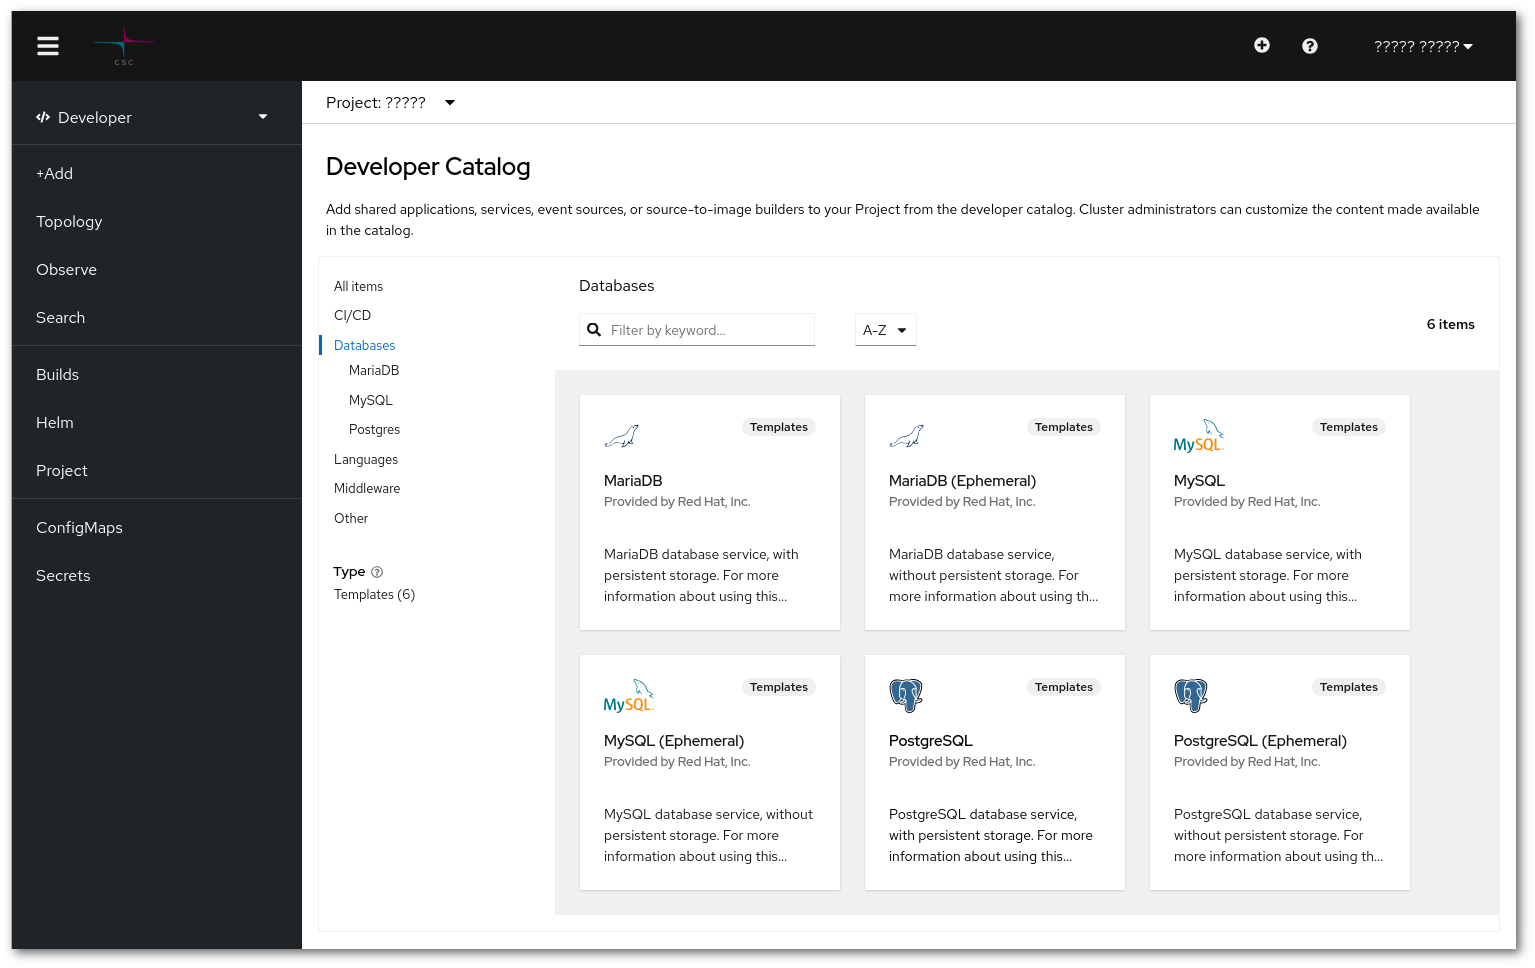
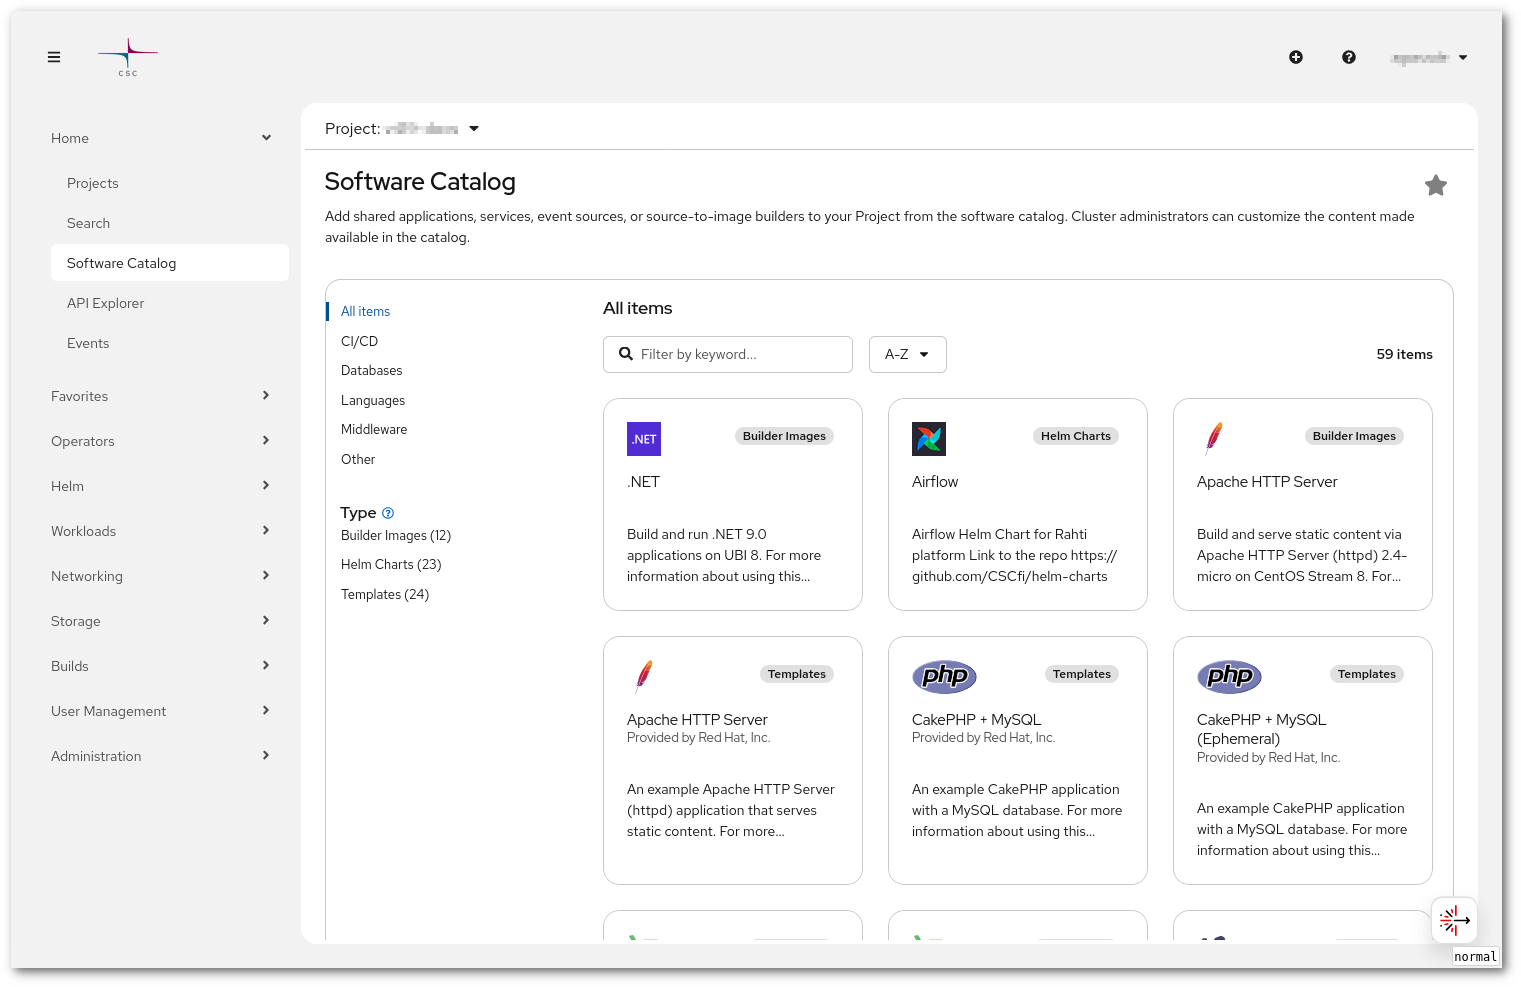
Update 4cat tutorial

diff --git a/docs/cloud/rahti/tutorials/4cat.md b/docs/cloud/rahti/tutorials/4cat.md
@@ -504,7 +504,7 @@ Finally we will create the deployments. We have 3 deployments and we will start 
     fixing permissions on existing directory /var/lib/postgresql/data ... initdb: error: could not change permissions of directory "/var/lib/postgresql/data": Operation not permitted
     ```
 
-    In this case we can see that this container image will never work in Rahti, as it needs to be able to change folder permissions. Luckily Rahti/Openshift provides a PostgreSQL template that is available in the developer catalog.
+    In this case we can see that this container image will never work in Rahti, as it needs to be able to change folder permissions. Luckily Rahti/Openshift provides a PostgreSQL template that is available in the Software Catalog.
 
     ![Developer Catalog](../../img/db-developer-catalog.png)
 
